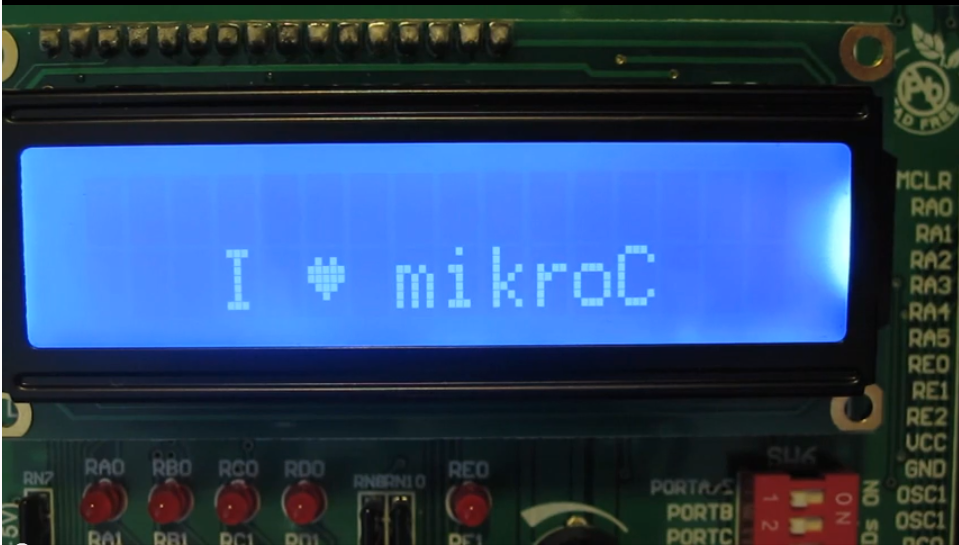
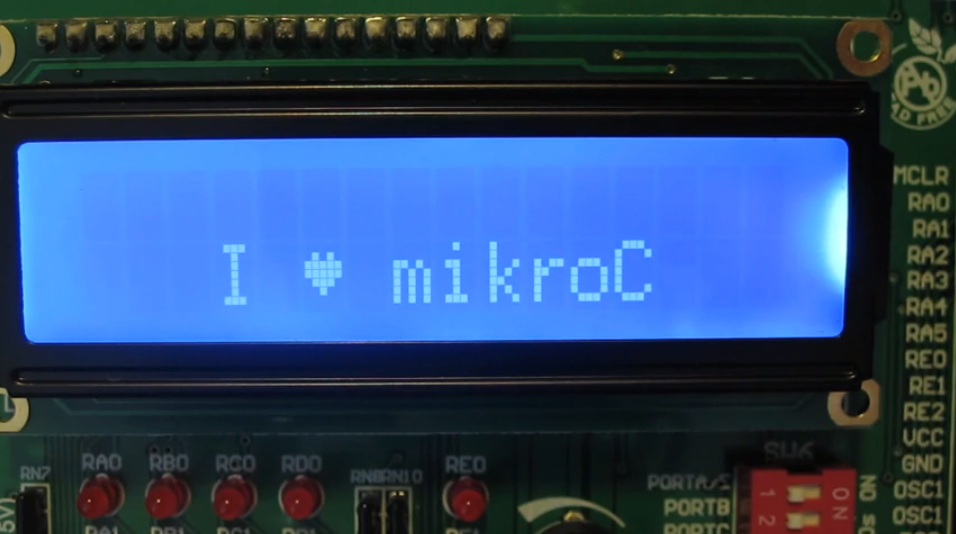
Added Screenshots

diff --git a/readme.md b/readme.md
@@ -7,6 +7,11 @@ This is a source code example that shows how to create a custom LCD character in
 
 In this video I demonstrate a way to create a custom LCD character using MikroC Pro for PIC and the EasyPIC Development board. The microcontroller used in this tutorial is the Microchip PIC18F4685.
 
+
+[LCD Screenshot](https://raw.github.com/AndrewHazelden/I-Heart-MikroC-Custom-LCD-Characters/master/Screenshots/I-Heart-MikroC-photo-1.png)
+
+[EasyPIC Development Board Screenshot](https://raw.github.com/AndrewHazelden/I-Heart-MikroC-Custom-LCD-Characters/master/Screenshots/I-Heart-MikroC-photo-2.png)
+
 ##Example Details
 
 ###Open Source Software License:  
